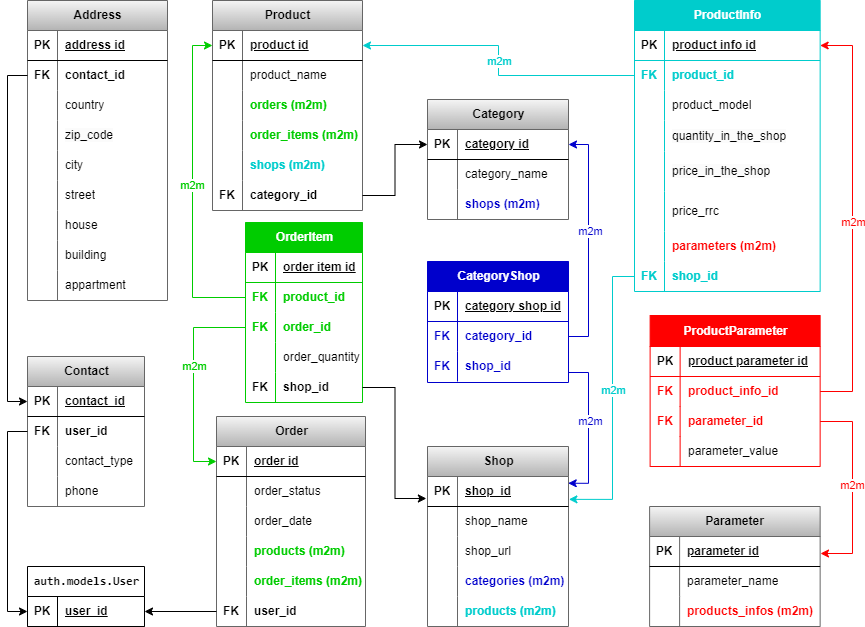
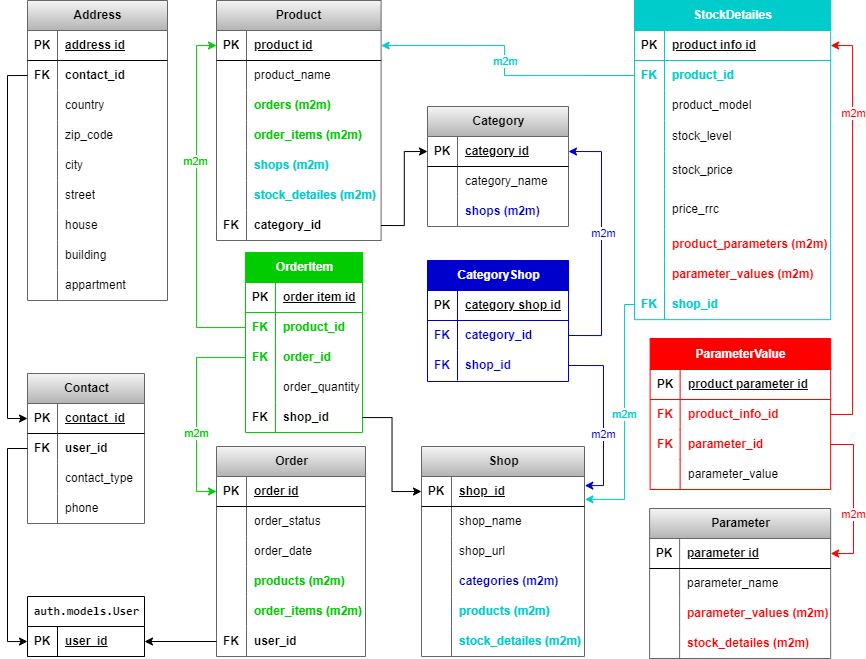
db_structure.png, models.py modified

diff --git a/backend/models.py b/backend/models.py
@@ -20,13 +20,15 @@ class Product(models.Model):
         return self.product_name
 
 
-class ProductInfo(models.Model):
-    product = models.ForeignKey(Product, on_delete=models.CASCADE, related_name="product_infos")
-
+class StockDetailes(models.Model):
+    product = models.ForeignKey(Product, on_delete=models.CASCADE, related_name="stock_detailes",
+                                verbose_name="Товар", blank=True)
+    stock_level = models.PositiveIntegerField(verbose_name="Количество в наличии")
+# todo продолжить
 
 class Parameter(models.Model):
     parameter_name = models.CharField(max_length="1000", verbose_name="Параметр")
-    product_infos = models.ManyToManyField(ProductInfos)
+    product_infos = models.ManyToManyField(ProductInfo, through="ProductParameter", related_name="parameters")
 
 
 
